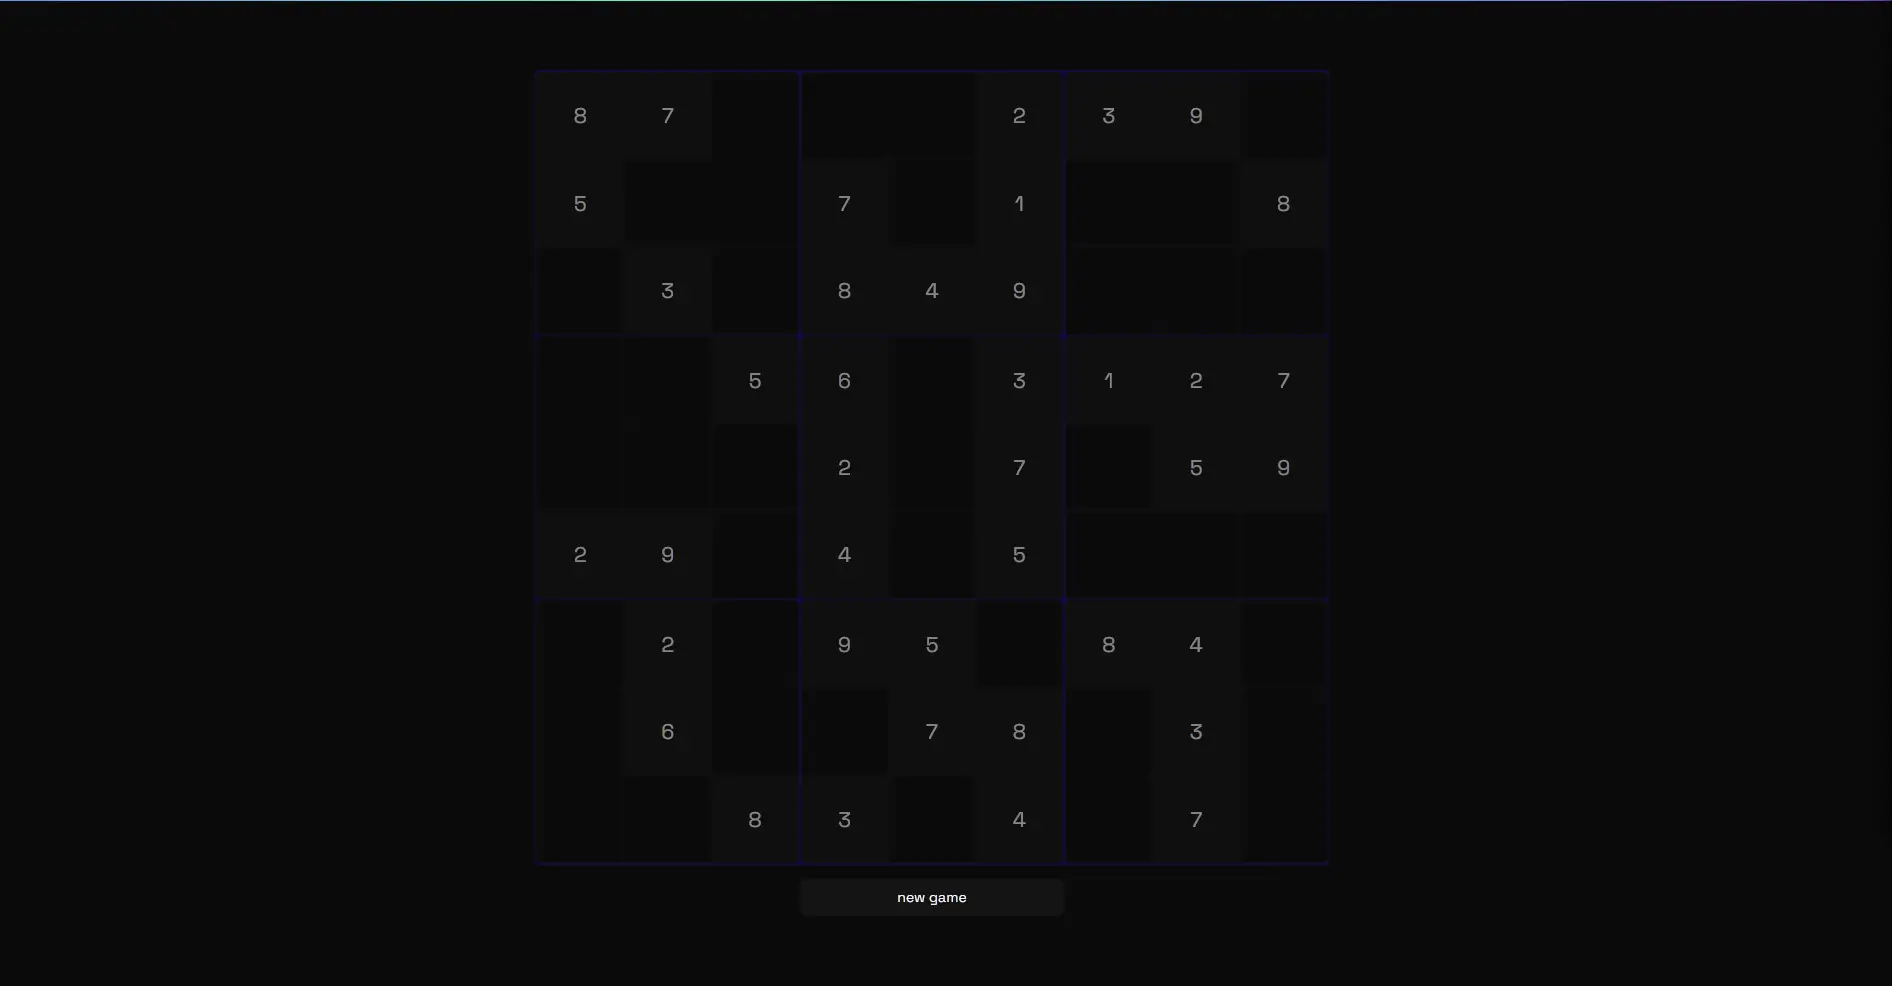
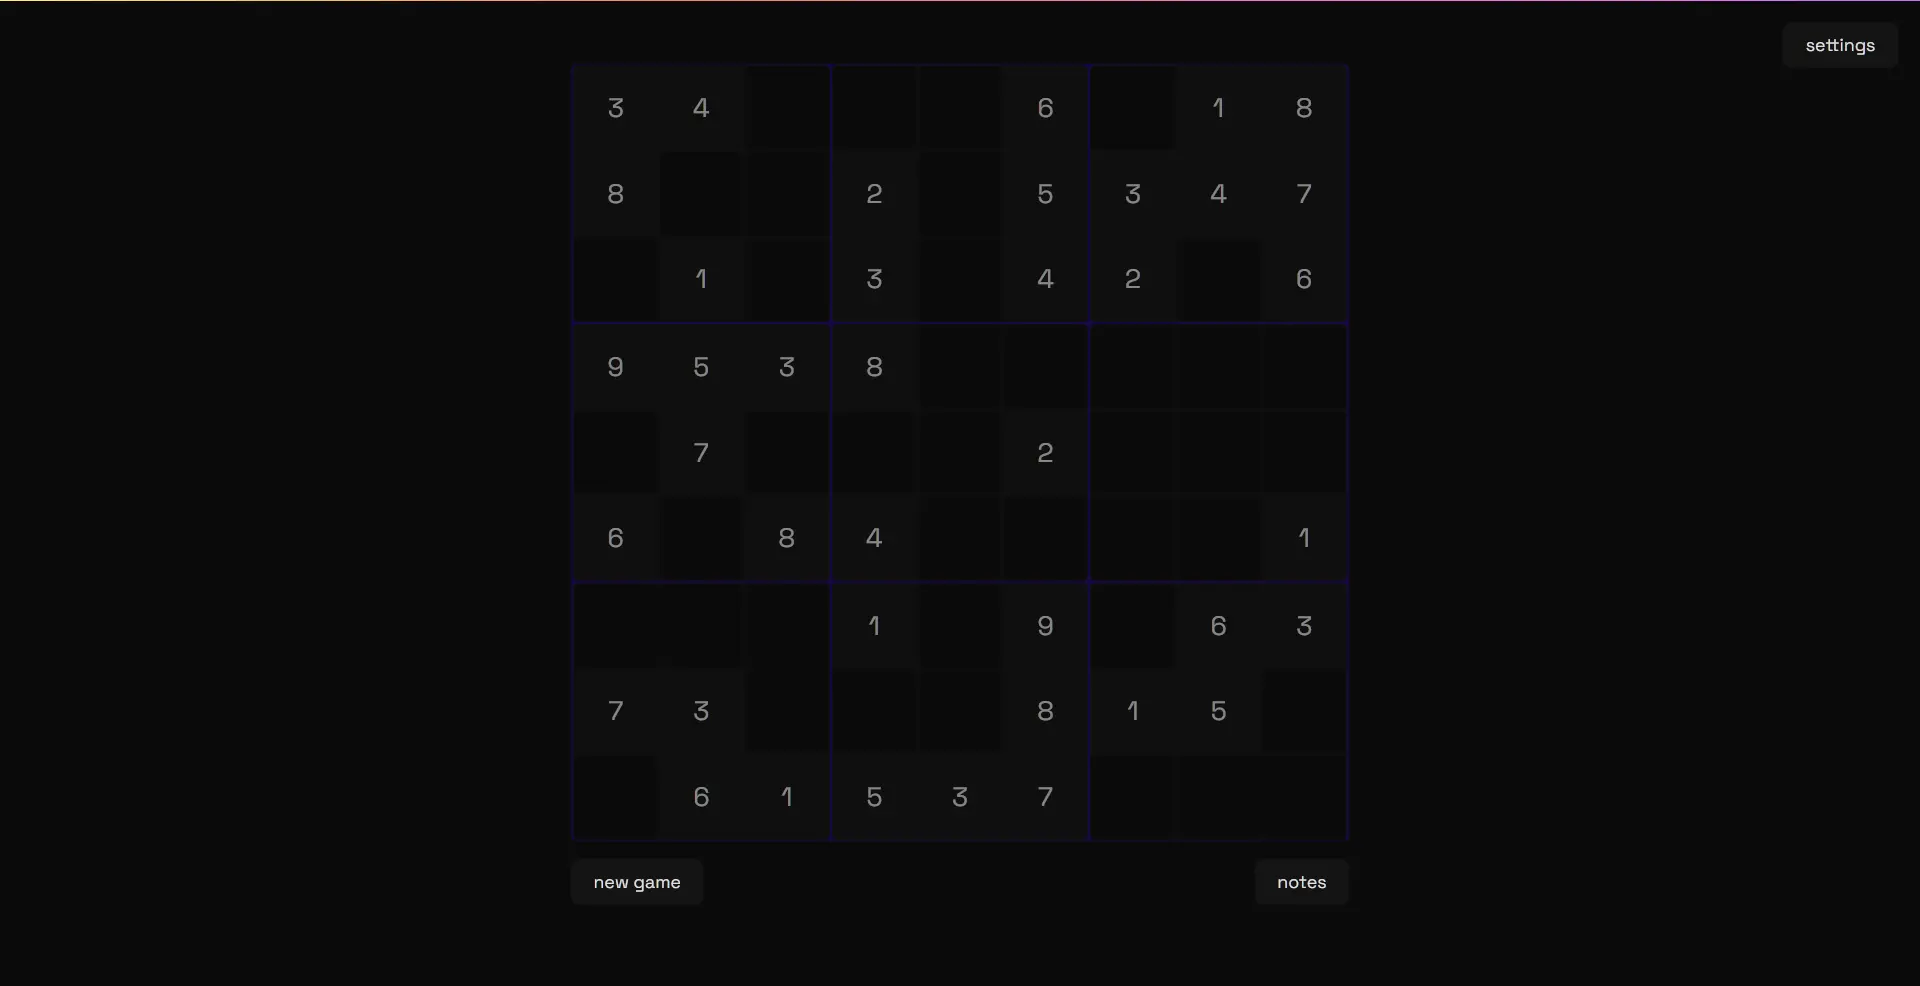
fixed project image aspect ratio

diff --git a/src/components/Sections/Projects.tsx b/src/components/Sections/Projects.tsx
@@ -19,6 +19,7 @@ import MaintenanceManager from '/project-images/MaintenanceManager.webp';
 import ToDo from '/project-images/ToDo.webp';
 import EventManager from '/project-images/EventManager.webp';
 import Sudoku from '/project-images/Sudoku.webp';
+import SudokuLight from '/project-images/SudokuLight.webp';
 
 export function Projects() {
   return (
@@ -29,7 +30,7 @@ export function Projects() {
           {/* Sudoku clone */}
           <Project
             image={Sudoku}
-            lightImage=""
+            lightImage={SudokuLight}
             title="Sudoku Clone (Work in Progress)"
             link="https://github.com/BigBadBodyPillow/sudoku-clone"
             description="A sudoku  game built with react. Features include notes,changing theme colours, changing font and, font size. Is responsive and can work on a phone."

diff --git a/src/components/Sections/Project.tsx b/src/components/Sections/Project.tsx
@@ -95,7 +95,8 @@ export function Project({
         <img
           src={image}
           alt={`preview of ${title}`}
-          className="object-cover w-full aspect-[16/9] bg-[var(--border-colour)] border-1 border-[var(--border-colour)] rounded-sm mb-4 select-none"
+          // 960/493 is the lowest denomination of 1920/986 which is the image dimesnions
+          className="object-contain w-full aspect-[960/493] bg-[var(--border-colour)] border-1 border-[var(--border-colour)] rounded-sm mb-4 select-none"
           draggable="false"
         />
       </picture>

diff --git a/README.md b/README.md
@@ -48,3 +48,5 @@ To run this project locally, you will need to have Node.js and npm installed.
 - [Favicon](https://www.svgrepo.com/)
 - [Other Icons](https://svgl.app/)
 - [svgviewer](https://www.svgviewer.dev/svg-to-react-jsx)
+- [cloudconvert](https://cloudconvert.com/)
+- [reducedimages](https://www.reduceimages.com/)
